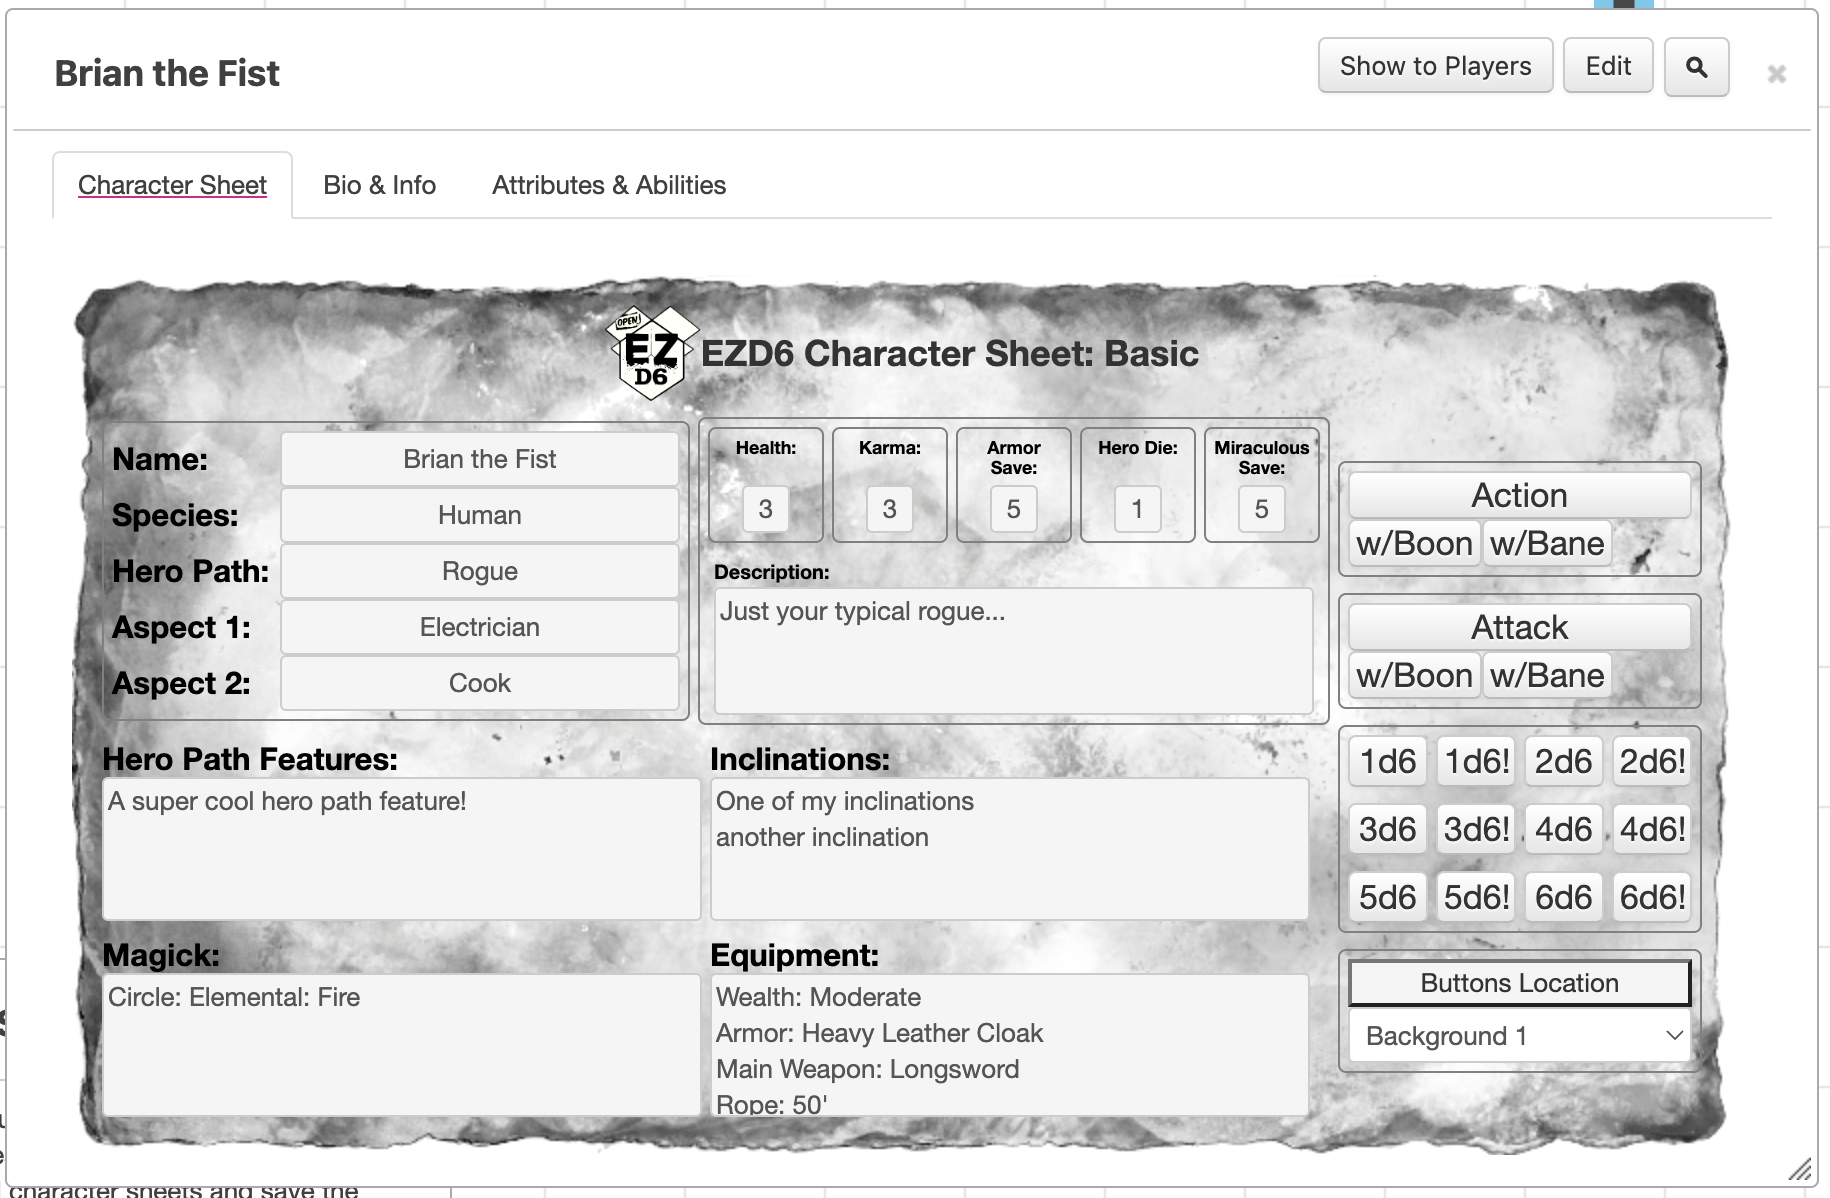
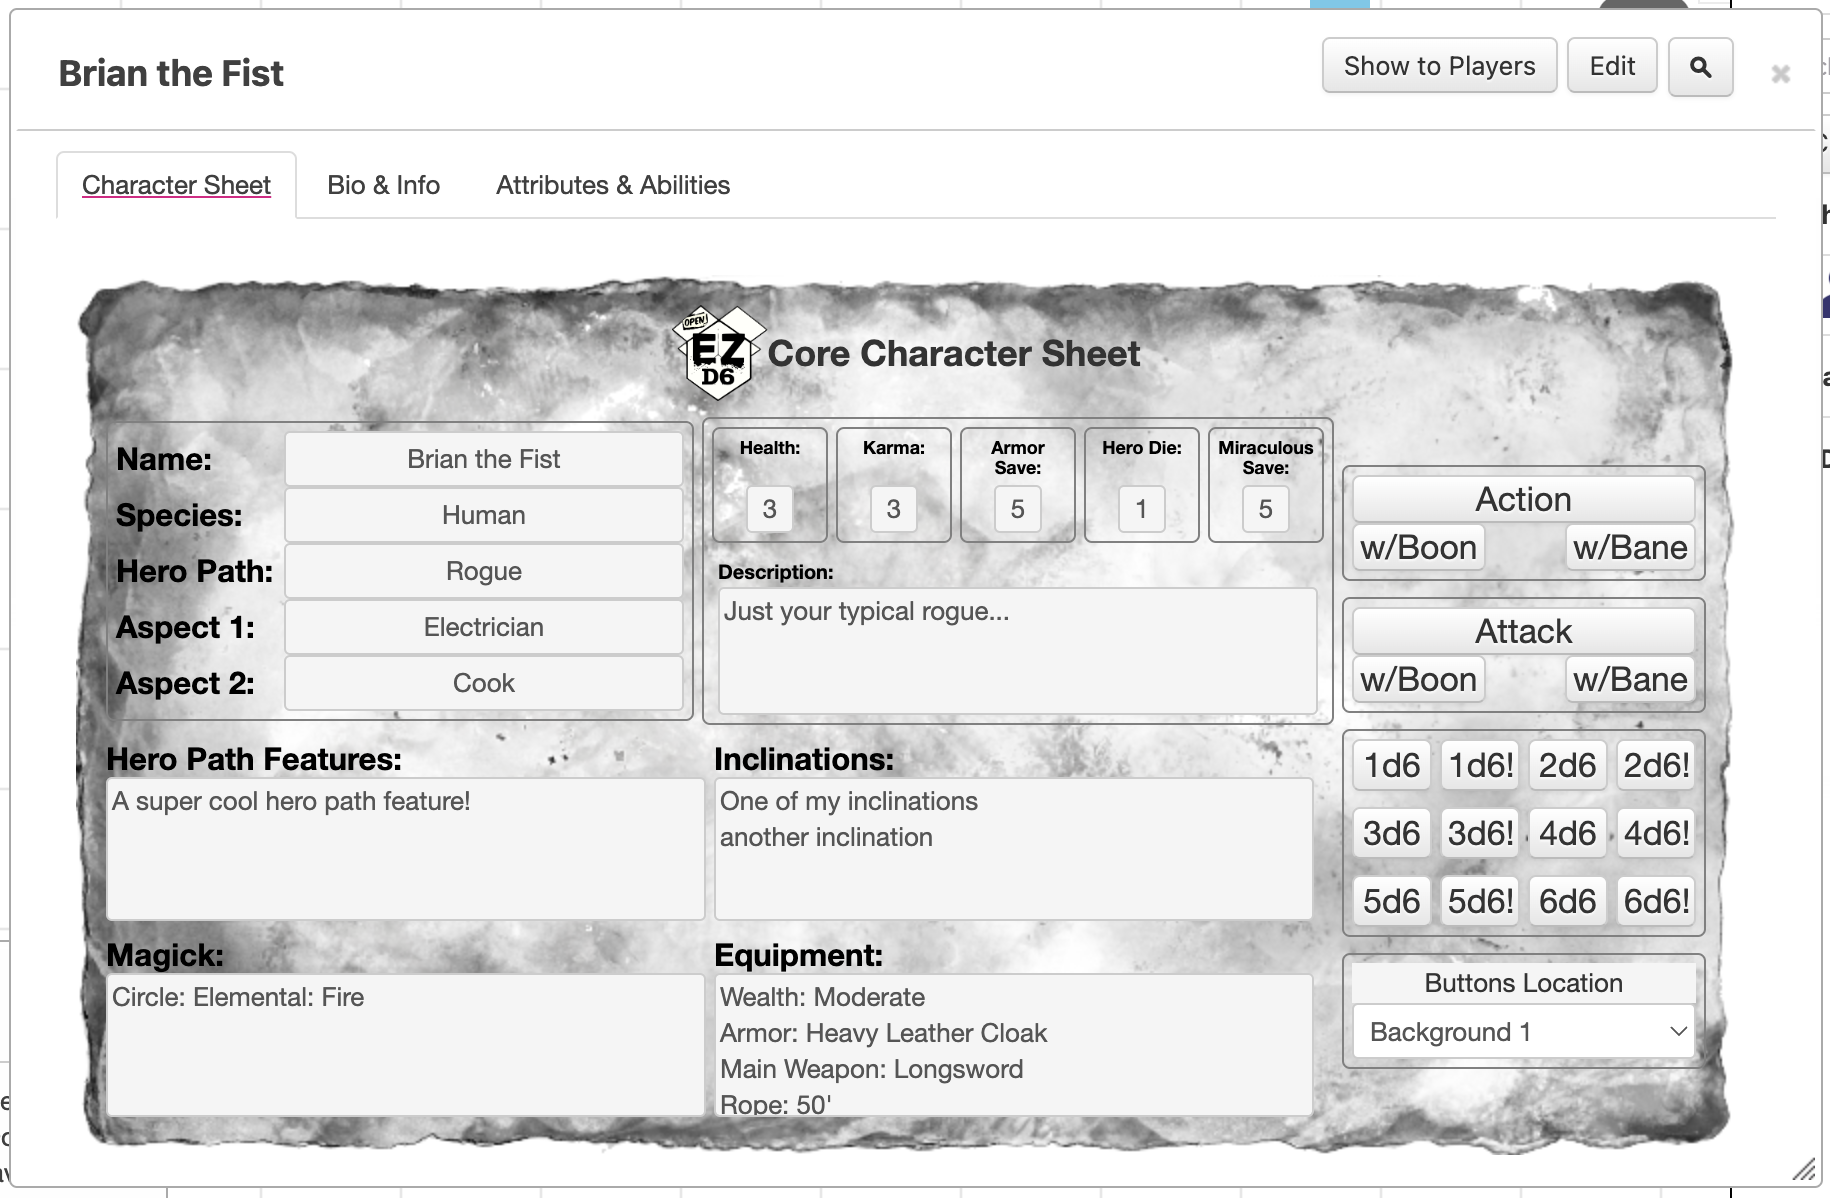
refinement done

diff --git a/src/ezd6-basic.html b/src/ezd6-basic.html
@@ -1,12 +1,16 @@
 <link rel="stylesheet" href="ezd6-basic.css" />
 
 <div class="sheet-outer-container">
-    <div class="sheet-inner-container">
-        <input type="hidden" name="attr_buttonToggle" value="sheet-flex-dir-reverse" />
+    <div class="sheet-inner-container sheet-flex-col sheet-col-gap">
+        <div class="sheet-flex-row sheet-flex-centered">
+            <div class="sheet-ezd6-logo"></div>
+            <h3>Core Character Sheet</h3>
+            <input type="hidden" name="attr_buttonToggle" value="sheet-flex-dir-reverse" />
+        </div>
 
-        <div class="sheet-character-sheet sheet-flex-row sheet-gap-h ${buttonToggle}">
-            <div class="sheet-flex-col sheet-gap-v">
-                <div class="sheet-flex-row sheet-gap-h">
+        <div class="sheet-character-sheet sheet-row-gap ${buttonToggle}">
+            <div class="sheet-flex-col sheet-col-gap">
+                <div class="sheet-flex-row sheet-row-gap">
                     <div class="sheet-flex-col sheet-border-group">
                         <div class="sheet-input-field">
                             <label for="character_name">Name:</label>
@@ -34,9 +38,9 @@
                         </div>
                     </div>
 
-                    <div class="sheet-flex-col sheet-flex-centered sheet-border-group sheet-gap-v"
+                    <div class="sheet-flex-col sheet-flex-centered sheet-border-group sheet-col-gap"
                         style="padding: 4px 4px !important;">
-                        <div class="sheet-flex-row sheet-flex-dir-row sheet-flex-centered sheet-gap-h">
+                        <div class="sheet-flex-row sheet-flex-centered sheet-row-gap">
                             <div class="sheet-flex-col sheet-flex-centered sheet-attr-group">
                                 <label for="health" style="text-align: center;">Health:</label>
                                 <input id="health" class="sheet-single-digit" type="number"
@@ -76,7 +80,7 @@
                     </div>
                 </div>
 
-                <div class="sheet-flex-row sheet-flex-dir-row sheet-gap-h">
+                <div class="sheet-flex-row sheet-row-gap">
                     <div class="sheet-flex-col sheet-flex-centered">
                         <label for="hero_path_features">Hero Path Features:</label>
                         <textarea id="hero_path_features" name="attr_character_hero_path_features" rows="4"
@@ -89,7 +93,7 @@
                     </div>
                 </div>
 
-                <div class="sheet-flex-row sheet-flex-dir-row sheet-gap-h">
+                <div class="sheet-flex-row sheet-row-gap">
                     <div class="sheet-flex-col sheet-flex-centered">
                         <label for="magick" title="Sorcery Circle(s), etc.">Magick:</label>
                         <textarea id="magick" name="attr_character_magick" rows="4" cols="100"></textarea>
@@ -102,14 +106,10 @@
                 </div>
             </div>
 
-            <div class="sheet-flex-col sheet-button-section sheet-gap-v" style="align-content: start;">
-                <div class="sheet-flex-row sheet-flex-centered">
-                    <div class="sheet-ezd6-logo"></div>
-                </div>
-
+            <div class="sheet-flex-col sheet-button-section sheet-col-gap" style="align-content: start;">
                 <div class="sheet-flex-col sheet-border-group">
                     <button type="roll" name="roll_d6" value="/roll 1d6!k1">Action</button>
-                    <div class="sheet-flex-row">
+                    <div class="sheet-flex-row" style="justify-content: space-between;">
                         <button type="roll" name="roll_d6" value="/roll 2d6!k1">w/Boon</button>
                         <button type="roll" name="roll_d6" value="/roll 2d6!kl1">w/Bane</button>
                     </div>
@@ -117,14 +117,14 @@
 
                 <div class="sheet-flex-col sheet-border-group">
                     <button type="roll" name="roll_d6" value="/roll 1d6!k1">Attack</button>
-                    <div class="sheet-flex-row">
+                    <div class="sheet-flex-row" style="justify-content: space-between;">
                         <button type="roll" name="roll_d6" value="/roll 2d6!k1">w/Boon</button>
                         <button type="roll" name="roll_d6" value="/roll 2d6!kl1">w/Bane</button>
                     </div>
                 </div>
 
-                <div class="sheet-flex-col sheet-gap-v sheet-border-group">
-                    <div class="sheet-flex-row sheet-gap-h">
+                <div class="sheet-flex-col sheet-col-gap sheet-border-group">
+                    <div class="sheet-flex-row sheet-row-gap">
                         <button type="roll" name="roll_d6" value="/roll 1d6" class="sheet-die">1d6</button>
                         <button type="roll" name="roll_d6X" value="/roll 1d6!k1" class="sheet-die">1d6!</button>
 
@@ -132,7 +132,7 @@
                         <button type="roll" name="roll_2d6X" value="/roll 2d6!k1" class="sheet-die">2d6!</button>
                     </div>
 
-                    <div class="sheet-flex-row sheet-gap-h">
+                    <div class="sheet-flex-row sheet-row-gap">
                         <button type="roll" name="roll_3d6" value="/roll 3d6k1" class="sheet-die">3d6</button>
                         <button type="roll" name="roll_3d6X" value="/roll 3d6!k1" class="sheet-die">3d6!</button>
 
@@ -140,7 +140,7 @@
                         <button type="roll" name="roll_4d6X" value="/roll 4d6!k1" class="sheet-die">4d6!</button>
                     </div>
 
-                    <div class="sheet-flex-row sheet-gap-h">
+                    <div class="sheet-flex-row sheet-row-gap">
                         <button type="roll" name="roll_5d6" value="/roll 5d6k1" class="sheet-die">5d6</button>
                         <button type="roll" name="roll_5d6X" value="/roll 5d6!k1" class="sheet-die">5d6!</button>
 
@@ -154,20 +154,6 @@
                         Buttons Location
                     </button>
 
-                    <select name="attr_borderImage" style="width: 172px !important;">
-                        <option value="sheet-border-none">No Border</option>
-                        <option value="sheet-border-line">Line</option>
-                        <option value="sheet-border-1">Border 1</option>
-                        <option value="sheet-border-2">Border 2</option>
-                        <option value="sheet-border-3">Border 3</option>
-                        <option value="sheet-border-4">Border 4</option>
-                        <option value="sheet-border-5">Border 5</option>
-                        <option value="sheet-border-6">Border 6</option>
-                        <option value="sheet-border-7">Border 7</option>
-                        <option value="sheet-border-8">Border 8</option>
-                        <option value="sheet-border-9">Border 9</option>
-                    </select>
-
                     <select name="attr_backgroundImage" style="width: 172px !important;">
                         <option value="">No Background</option>
                         <option value="sheet-background-1">Background 1</option>
@@ -176,6 +162,9 @@
                         <option value="sheet-background-4">Background 4</option>
                         <option value="sheet-background-5">Background 5</option>
                         <option value="sheet-background-6">Background 6</option>
+                        <option value="sheet-background-7">Background 7</option>
+                        <option value="sheet-background-8">Background 8</option>
+                        <option value="sheet-background-9">Background 9</option>
                     </select>
                 </div>
             </div>
@@ -188,20 +177,6 @@
     const innerContainer = $20('div.sheet-inner-container');
     const characterSheet = $20('div.sheet-character-sheet');
 
-    const borderImageClasses = [
-        '',
-        'sheet-border-line',
-        'sheet-border-1',
-        'sheet-border-2',
-        'sheet-border-3',
-        'sheet-border-4',
-        'sheet-border-5',
-        'sheet-border-6',
-        'sheet-border-7',
-        'sheet-border-8',
-        'sheet-border-9',
-    ];
-
     const backgroundImageClasses = [
         '',
         'sheet-background-1',
@@ -212,35 +187,23 @@
         'sheet-background-6',
     ]
 
-    const clearBorderImage = () =>
-        borderImageClasses.forEach((imageClass) => {
+    const clearBackgroundImage = () =>
+        backgroundImageClasses.forEach((imageClass) => {
             if (imageClass != 'none') {
                 outerContainer.removeClass(imageClass);
             }
         });
 
-    const clearBackgroundImage = () =>
-        backgroundImageClasses.forEach((imageClass) => {
-            if (imageClass != 'none') {
-                innerContainer.removeClass(imageClass);
-            }
-        });
-
     on('sheet:opened', () => {
         getAttrs(['buttonToggle', 'borderImage', 'backgroundImage'], (data) => {
-            console.log('*** sheet:opened: data:', data);
-
             characterSheet.removeClass('sheet-flex-dir-reverse');
 
             if (data.buttonToggle === 'sheet-flex-dir-reverse') {
                 characterSheet.addClass('sheet-flex-dir-reverse');
             }
 
-            clearBorderImage();
-            outerContainer.addClass(data.borderImage);
-
             clearBackgroundImage();
-            innerContainer.addClass(data.backgroundImage);
+            outerContainer.addClass(data.backgroundImage);
         });
     });
 
@@ -256,16 +219,8 @@
         });
     });
 
-    on('change:borderImage', (evt) => {
-        const { previousValue, newValue } = evt;
-        console.debug('change:borderImage:', { previousValue, newValue });
+    on('change:backgroundImage', (evt) => {
         outerContainer.removeClass(evt.previousValue);
         outerContainer.addClass(evt.newValue);
-    });
-
-    on('change:backgroundImage', (evt) => {
-        console.debug('change:backgroundImage:', evt.previousValue, evt.newValue);
-        innerContainer.removeClass(evt.previousValue);
-        innerContainer.addClass(evt.newValue);
     });
 </script>

diff --git a/src/ezd6-basic.css b/src/ezd6-basic.css
@@ -5,72 +5,33 @@
     align-items: center;
 
     width: 830px;
-    height: 444px;
+    height: 440px;
 
-    background-size: 830px 444px;
     background-repeat: no-repeat;
 
-    font-size: 1rem !important;
-    line-height: 0.8rem;
+    font-size: 1em !important;
+    line-height: 0.8em;
 }
 
 .sheet-inner-container {
-    margin-left: -2px;
-    width: 802px;
-    height: 412px;
-    background-size: 802px 412px;
-    background-repeat: no-repeat;
+    width: 800px;
+    height: 410px;
 }
 
 .sheet-character-sheet {
-    width: 802px;
-    height: 412px;
+    display: flex;
+    align-items: center;
+    width: 100%;
 }
 
 .sheet-flex-dir-reverse {
-    margin-left: -38px !important;
+    /* margin-left: -38px !important; */
     flex-direction: row-reverse;
 }
 
 .sheet-border-line {
     border-radius: 8px;
     border: 1px solid #000;
-}
-
-.sheet-border-1 {
-    background-image: url('https://raw.githubusercontent.com/Roll20Code/ezd6-char-sheet-basic/main/src/art/border_1.png');
-}
-
-.sheet-border-2 {
-    background-image: url('https://raw.githubusercontent.com/Roll20Code/ezd6-char-sheet-basic/main/src/art/border_2.png');
-}
-
-.sheet-border-3 {
-    background-image: url('https://raw.githubusercontent.com/Roll20Code/ezd6-char-sheet-basic/main/src/art/border_3.png');
-}
-
-.sheet-border-4 {
-    background-image: url('https://raw.githubusercontent.com/Roll20Code/ezd6-char-sheet-basic/main/src/art/border_4.png');
-}
-
-.sheet-border-5 {
-    background-image: url('https://raw.githubusercontent.com/Roll20Code/ezd6-char-sheet-basic/main/src/art/border_5.png');
-}
-
-.sheet-border-6 {
-    background-image: url('https://raw.githubusercontent.com/Roll20Code/ezd6-char-sheet-basic/main/src/art/border_6.png');
-}
-
-.sheet-border-7 {
-    background-image: url('https://raw.githubusercontent.com/Roll20Code/ezd6-char-sheet-basic/main/src/art/border_7.png');
-}
-
-.sheet-border-8 {
-    background-image: url('https://raw.githubusercontent.com/Roll20Code/ezd6-char-sheet-basic/main/src/art/border_8.png');
-}
-
-.sheet-border-9 {
-    background-image: url('https://raw.githubusercontent.com/Roll20Code/ezd6-char-sheet-basic/main/src/art/border_9.png');
 }
 
 .sheet-background-1 {
@@ -97,12 +58,12 @@
     background-image: url('https://raw.githubusercontent.com/Roll20Code/ezd6-char-sheet-basic/main/src/art/background_6.png');
 }
 
-.sheet-gap-h {
+.sheet-row-gap {
     gap: 4px;
 }
 
-.sheet-gap-v {
-    gap: 4px;
+.sheet-col-gap {
+    gap: 8px;
 }
 
 .sheet-ezd6-logo {
@@ -115,6 +76,7 @@
 
 .sheet-flex-row {
     display: flex;
+    flex-direction: row;
     align-items: center;
     width: 100%;
 }
@@ -122,10 +84,6 @@
 .sheet-flex-col {
     display: flex;
     flex-direction: column;
-}
-
-.sheet-flex-dir-row {
-    flex-direction: row;
 }
 
 .sheet-input-field {
@@ -206,6 +164,11 @@ textarea {
 button.sheet-die {
     width: 32px;
     height: 20px;
+}
+
+button {
+    outline: none;
+    border: none;
 }
 
 .sheet-button-section button[type="roll"]:before {
